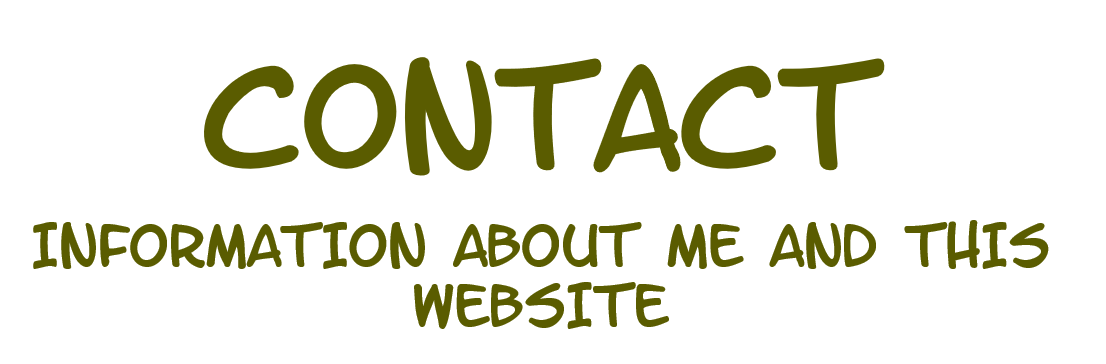
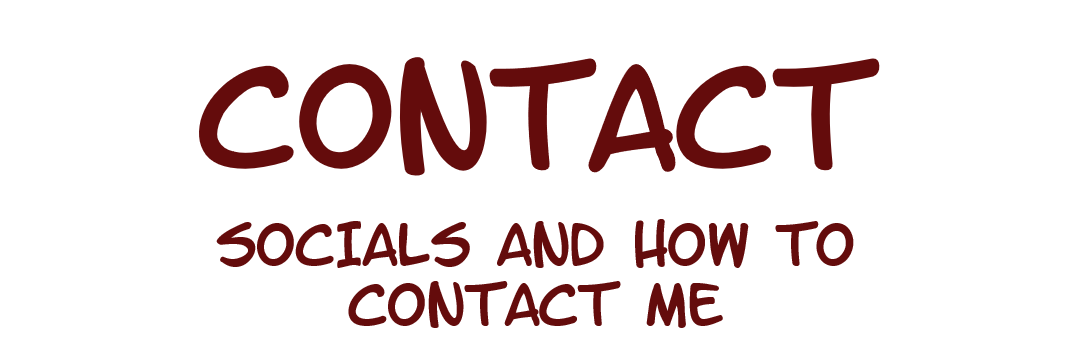
Temp Commit

Changed region(s): [[0.0309, 0.6044, 0.957, 0.9066], [0.1852, 0.1511, 0.8335, 0.4835]]

diff --git a/aboutme.html b/aboutme.html
@@ -15,21 +15,34 @@
 
         <body>
             <div class="parallaxyellow" style="height: 800px">
-                    <br><br>
-                    <img src="images/contact.png" class="responsive">     
-                </div>
-    
-            
-                <ul>
-                    <li><a href="index.html">Home</a></li>
-                    <li><a href="mygames.html">My Games</a></li>
-                    <li class = "active" style="float:right"><a href="aboutme.html">About Me</a></li>
-                </ul> 
-    
-                <div style="height:200px;background-color:white;">
-                    <h2>Information about me and this website will be here</h2>
-                    <p></p>       
-                </div>
+                <br><br>
+                <img src="images/aboutme.png" class="responsive">     
+            </div>
+
+        
+            <ul>
+                <li><a href="index.html">Home</a></li>
+                <li><a href="mygames.html">My Games</a></li>
+                <li class = "active" style="float:right"><a href="aboutme.html">About Me</a></li>
+            </ul> 
+
+            <div style="height:200px;background-color:white;">
+                <h2>Information about me and this website will be here</h2>
+                <p></p>       
+            </div>
+
+            <div class="parallaxred" style="height: 800px">
+                <br><br>
+                <img src="images/contact.png" class="responsive"> 
+                
+                <a href="https://steamcommunity.com/id/b3ak"><img src="images/socials/steam.png" alt="Steam" title="Steam" width="300px" height="300px"/></a>
+                <a href="https://www.instagram.com/tom.collyer/"><img src="images/socials/instagram.png" alt="Instagram" title="Instagram" width="300px" height="300px"/></a>
+
+
+
+
+            </div>
+
         </body>
 
     </html>

diff --git a/mygames.html b/mygames.html
@@ -15,21 +15,21 @@
 
         <body>
             <div class="parallaxblue" style="height: 800px">
-                    <br><br>
-                    <img src="images/mygames.png" class="responsive">     
-                </div>
+                <br><br>
+                <img src="images/mygames.png" class="responsive">     
+            </div>
     
             
-                <ul>
-                    <li><a href="index.html">Home</a></li>
-                    <li><a class = "active" href="mygames.html">My Games</a></li>
-                    <li style="float:right"><a href="aboutme.html">About Me</a></li>
-                </ul> 
-    
-                <div style="height:200px;background-color:white;">
-                    <h2>There will be information and download links for my games here</h2>
-                    <p>If you made it to this page then I know my website is working</p>       
-                </div>
+            <ul>
+                <li><a href="index.html">Home</a></li>
+                <li><a class = "active" href="mygames.html">My Games</a></li>
+                <li style="float:right"><a href="aboutme.html">About Me</a></li>
+            </ul> 
+
+            <div style="height:200px;background-color:white;">
+                <h2>There will be information and download links for my games here</h2>
+                <p>If you made it to this page then I know my website is working</p>       
+            </div>
         </body>
 
     </html>

diff --git a/Space Tanks/spacetanks.html b/Space Tanks/spacetanks.html
@@ -14,9 +14,8 @@
   </head>
   <body>
 
-    <h1>Space Tanks</h1>
-    <h2>By Tom Collyer</h2>
-    <a href="../index.html"><p>Back to Index</p></a> 
+
+    <a href="../mygames.html"><p>Back to Games</p></a> 
 
     <div class="webgl-content">
       <div id="gameContainer" style="width: 1280px; height: 720px"></div>

diff --git a/index.html b/index.html
@@ -22,7 +22,7 @@
 
             <div class="parallaxgreen" style="height: 800px">
                 <br><br>
-                <img src="images/welcometext.png" class="responsive">     
+                <img src="beaklogo.png" class="responsive">     
             </div>
 
      
